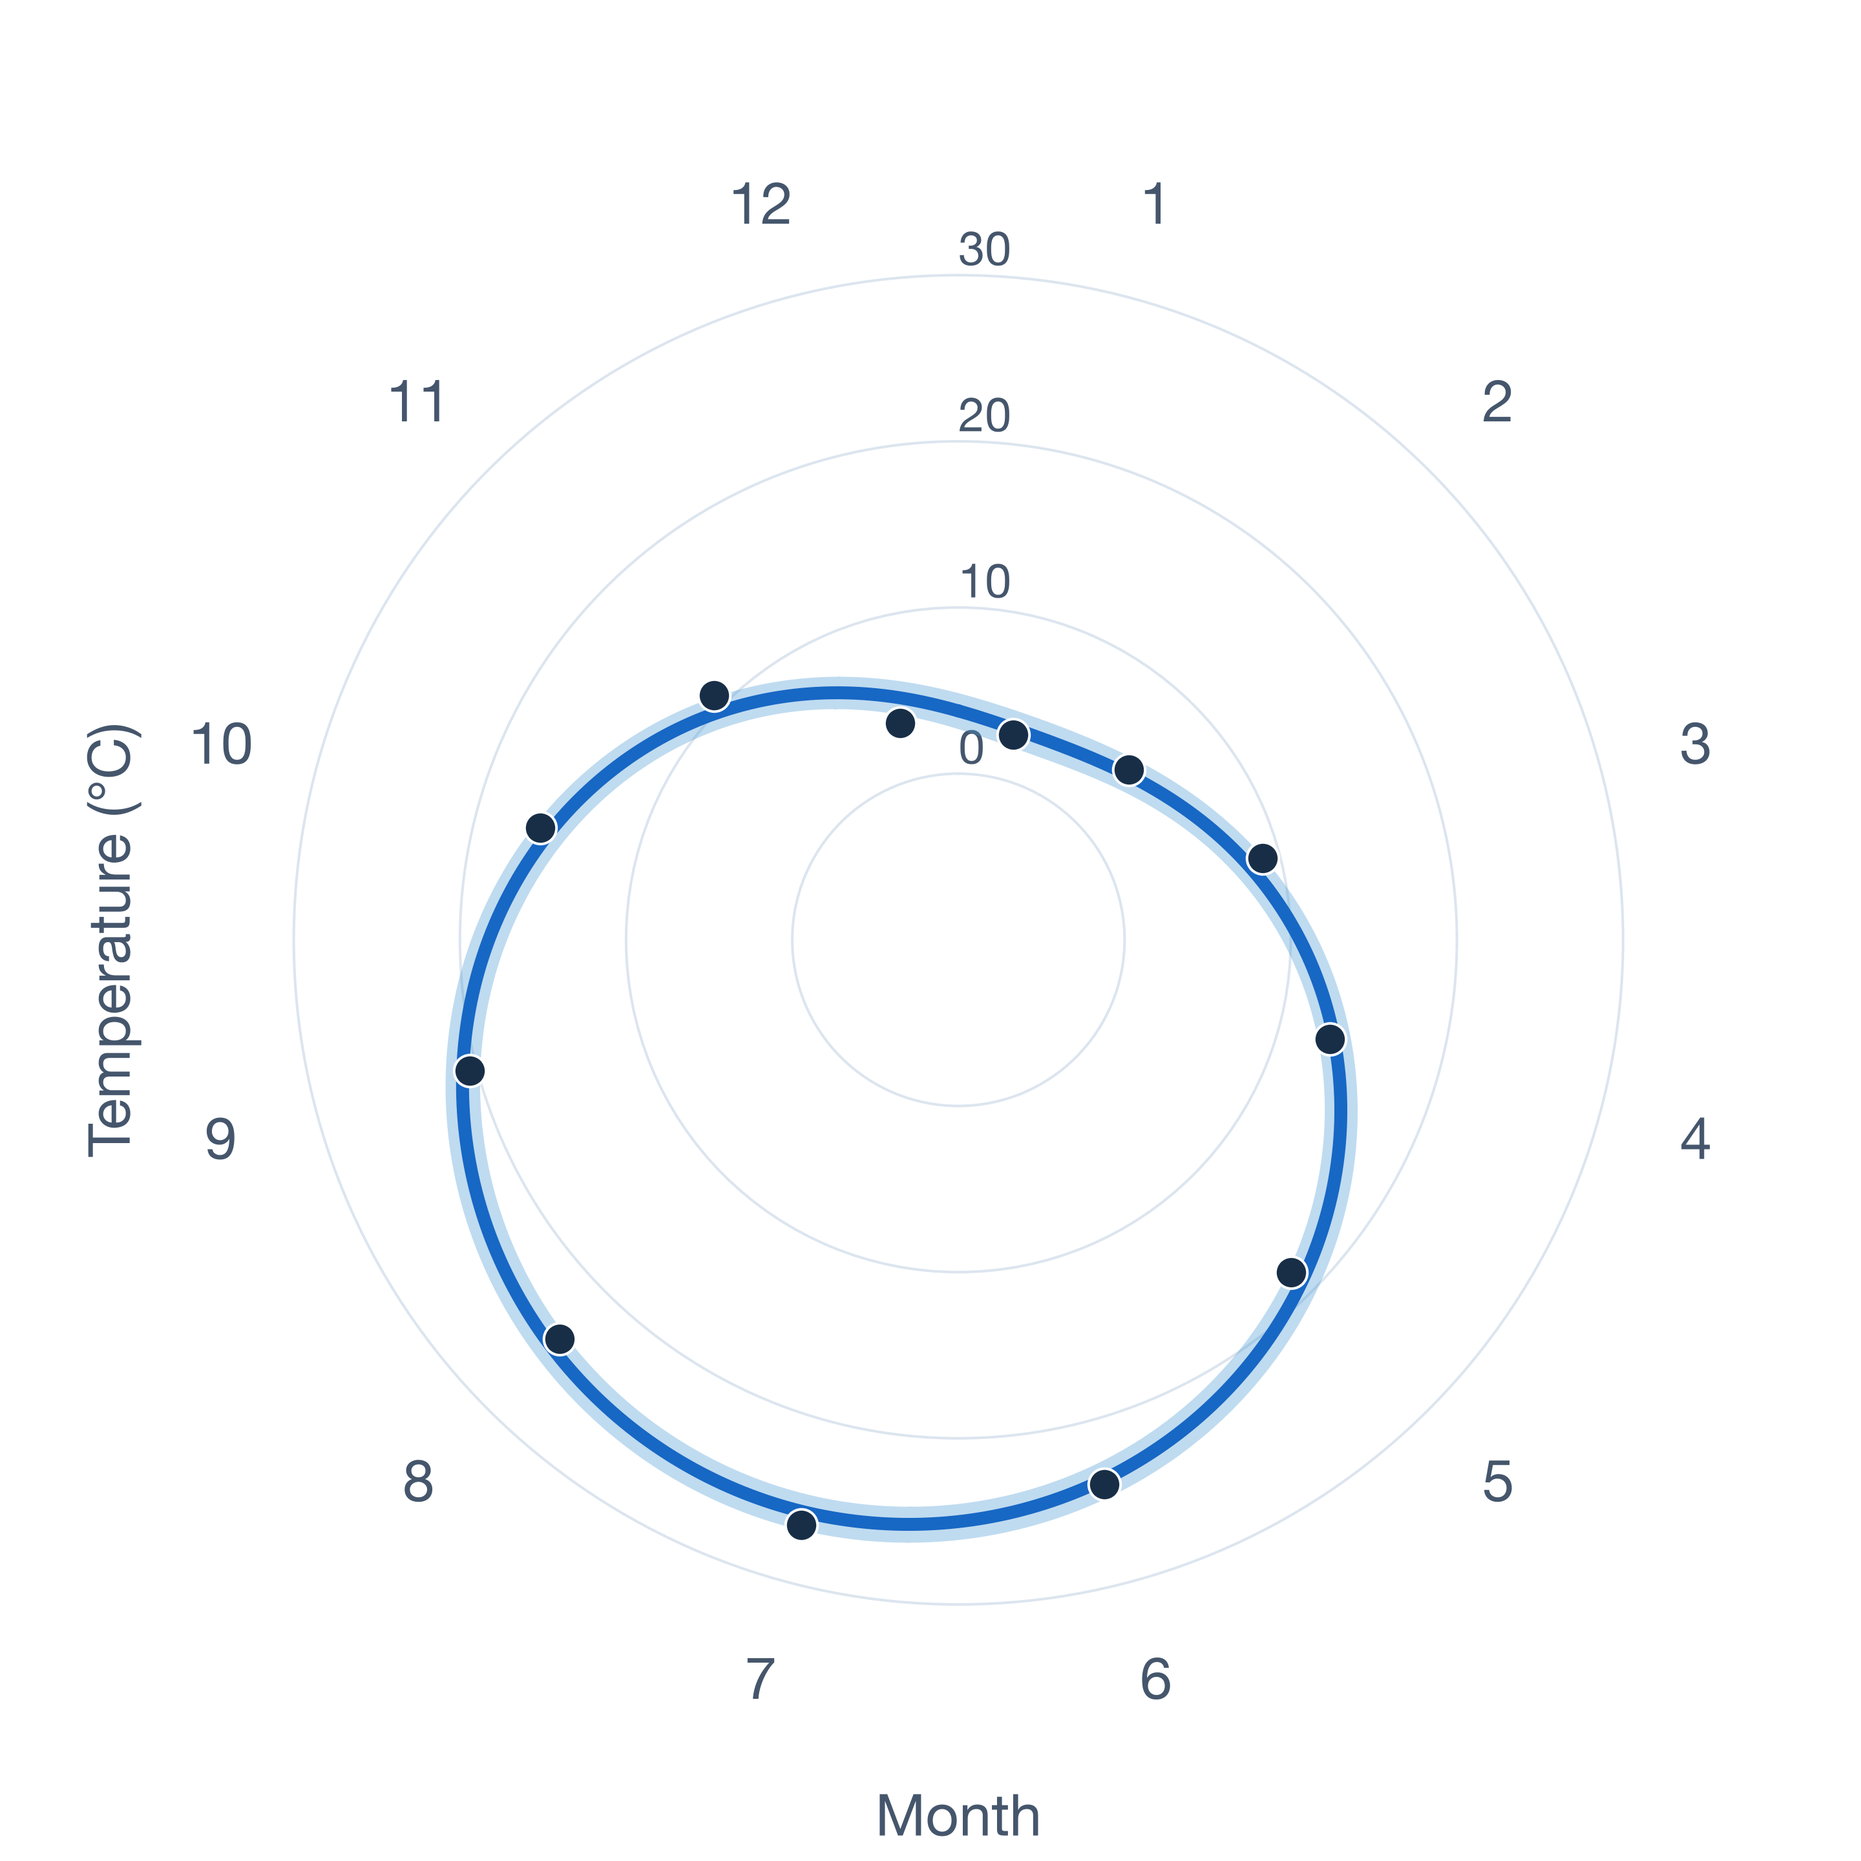
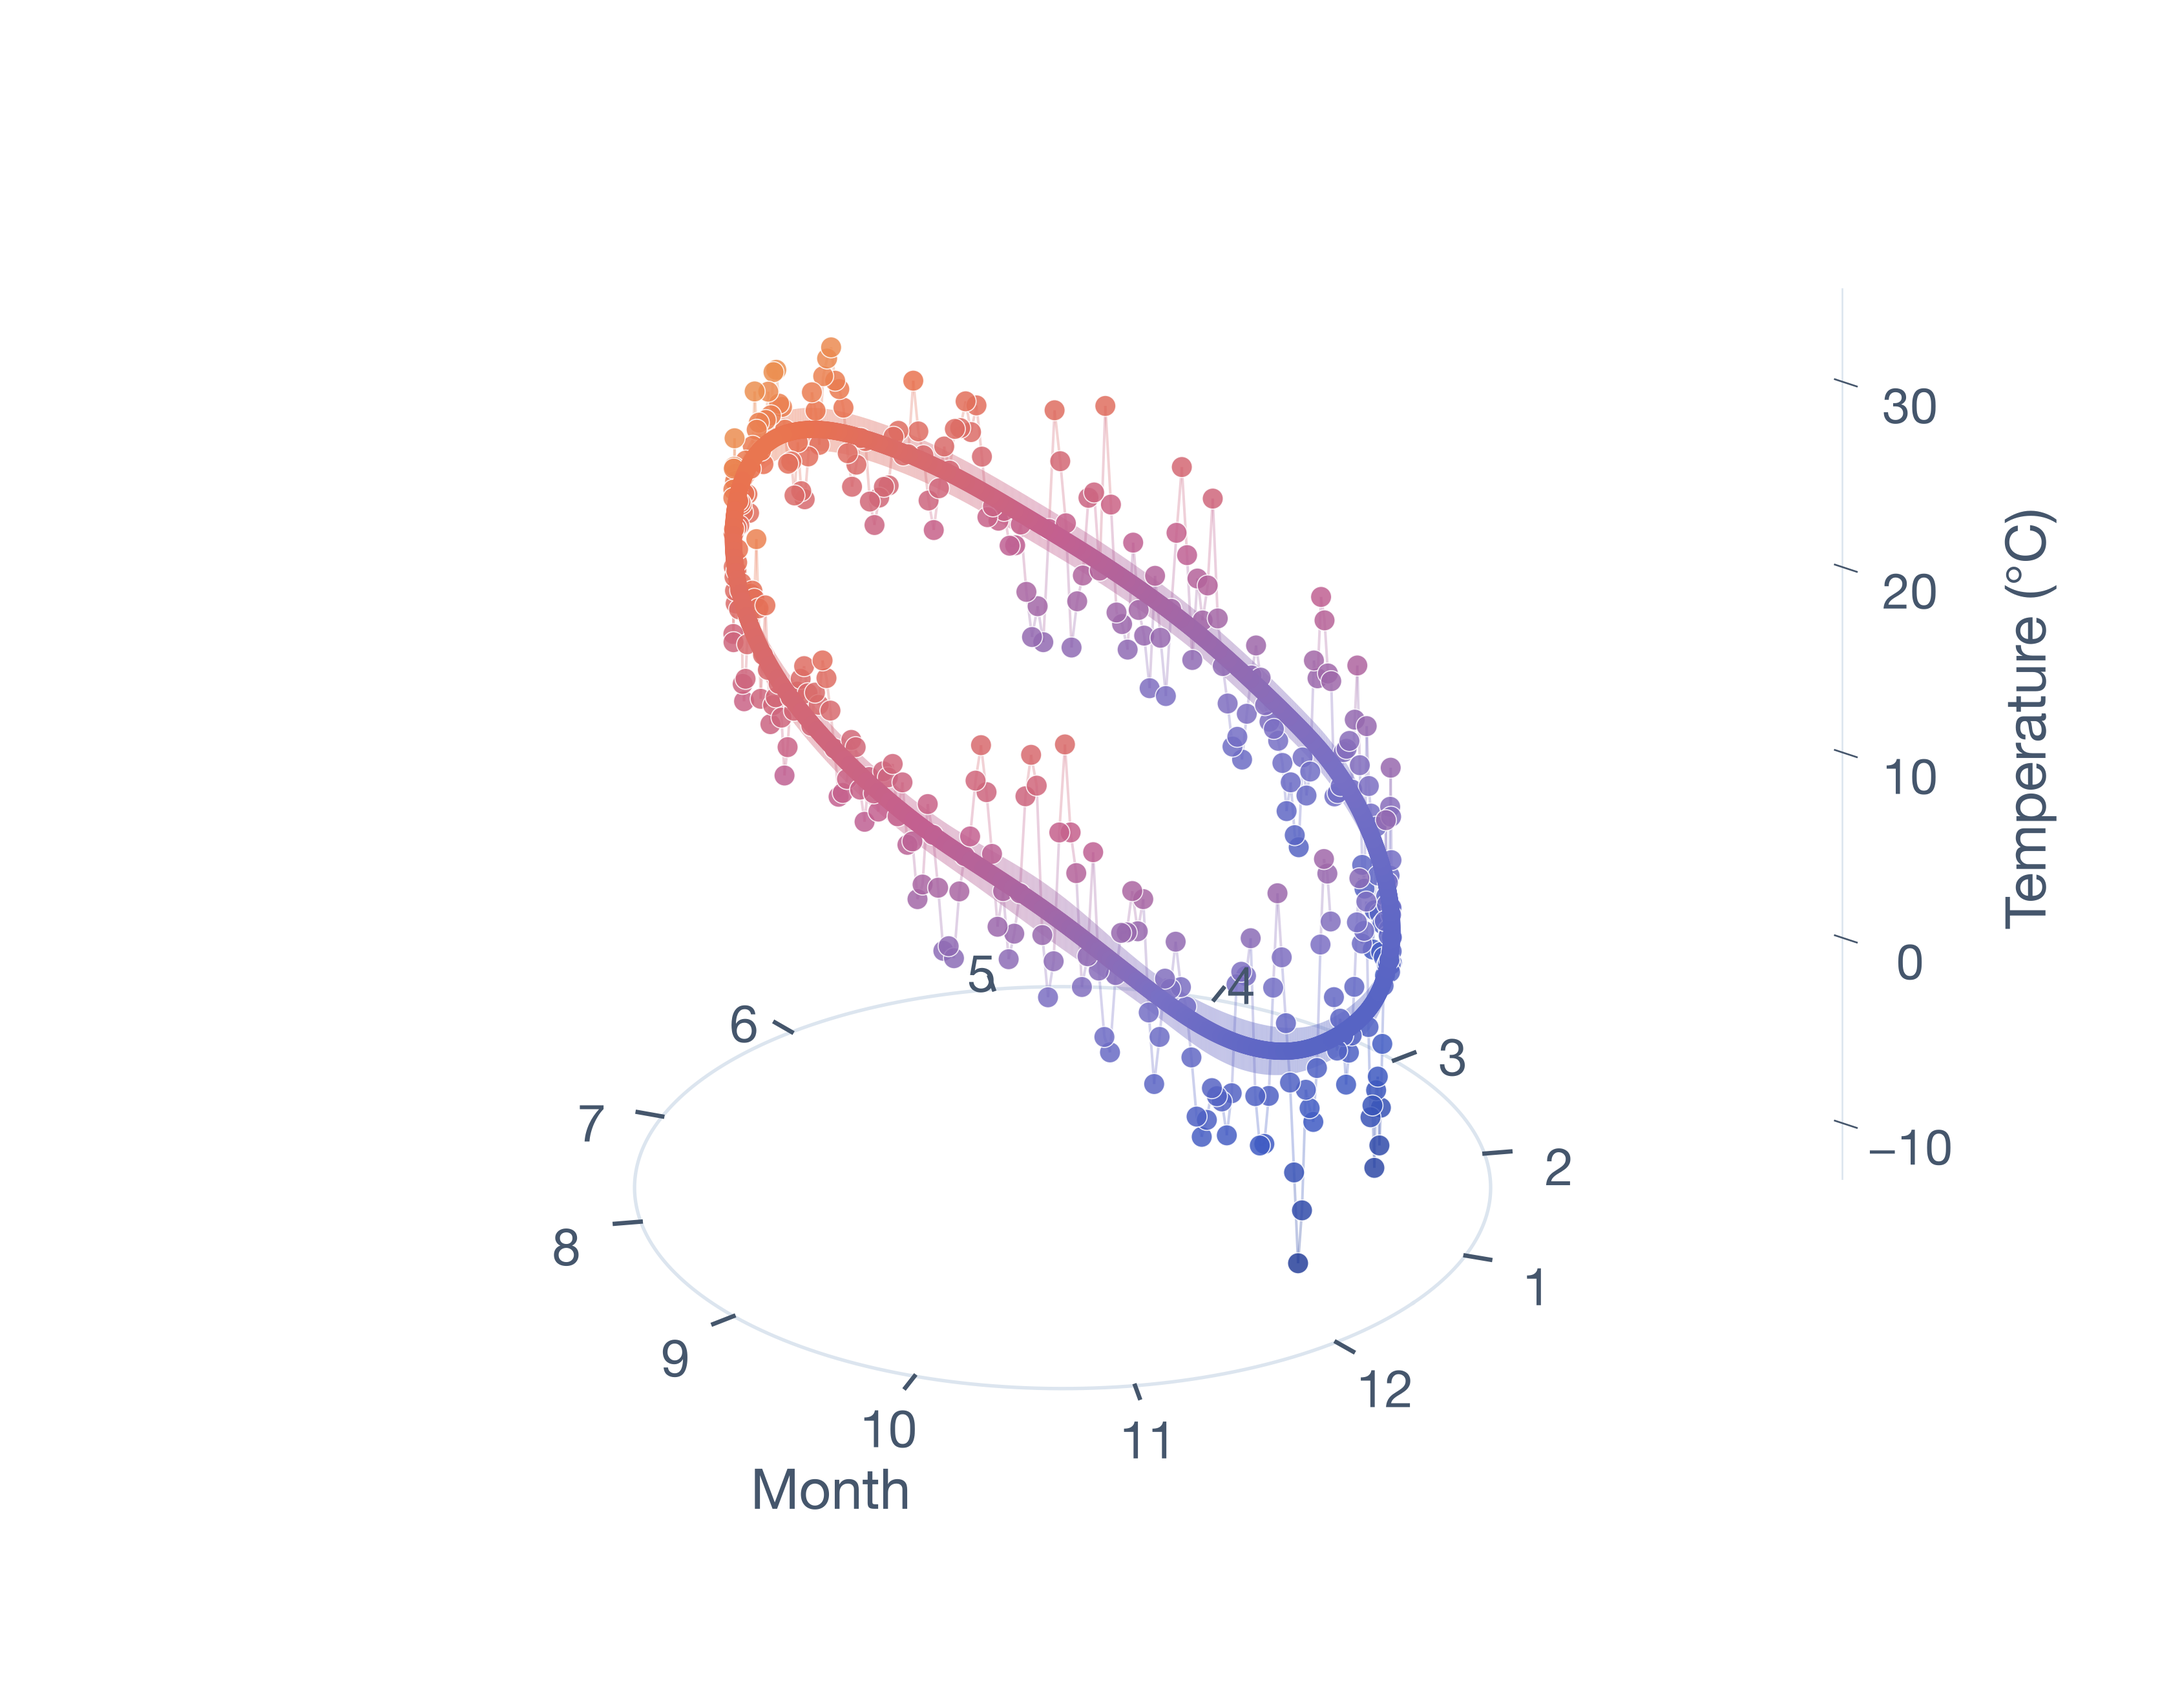
Render all daily temperatures as a colored 3-D cyclic loop with uncertainty

diff --git a/scripts/gen_readme_temperature.py b/scripts/gen_readme_temperature.py
@@ -1,11 +1,11 @@
-"""One circular plot of a real cyclic temperature fit, with a 95% mean band.
+"""One 3-D loop of all 366 daily temperatures and a periodic fit.
 
 NOAA GHCN-Daily station USW00094728 (New York Central Park), 2024.
-Monthly points average paired, quality-approved daily (TMAX + TMIN) / 2.
-Fit the 12 monthly means with gamfit's periodic smooth; radius is temperature
-in Celsius and angle is month. The fitted mean and credible bounds join at
-the year boundary. The radial origin is -10 C, explicitly reflected by the
-radial limits; neither temperatures nor uncertainty widths are rescaled.
+Each observation is a quality-approved daily (TMAX + TMIN) / 2 in Celsius.
+No averaging into months or downsampling: all 366 daily observations appear.
+Angle encodes day of year, while both height and colour encode temperature.
+The continuous fitted loop has a vertical 95% credible ribbon. Its mean and
+bounds wrap at the year boundary; calendar months mark the circular base axis.
 
 Source: https://www.ncei.noaa.gov/pub/data/ghcn/daily/all/USW00094728.dly
 Format: https://www.ncei.noaa.gov/pub/data/ghcn/daily/readme.txt
@@ -25,7 +25,7 @@ import gamfit
 
 ROOT = Path(__file__).resolve().parents[1]
 SOURCE = ROOT / 'docs/data/central_park_2024.dly'
-FORMULA = 'temperature ~ s(phase, periodic=true, period=1, k=8)'
+FORMULA = 'temperature ~ s(phase, periodic=true, period=1, k=60)'
 THEMES = {
     'light': dict(background='#ffffff', ink='#45566c', grid='#dce5ef',
                   mean='#1767c4', band='#489ad4', points='#182e47'),
@@ -34,7 +34,7 @@ THEMES = {
 }
 
 
-def monthly_data():
+def daily_data():
     daily = {}
     for line in SOURCE.read_text().splitlines():
         assert line[:11] == 'USW00094728' and line[11:15] == '2024'
@@ -46,16 +46,16 @@ def monthly_data():
             value, quality = int(record[:5]), record[6]
             values.append(value / 10 if value != -9999 and quality == ' ' else np.nan)
         daily[month, element] = np.asarray(values)
-    means = []
-    for month in range(1, 13):
-        pairs = (daily[month, 'TMAX'] + daily[month, 'TMIN']) / 2
-        assert np.isfinite(pairs).sum() >= 25
-        means.append(np.nanmean(pairs))
-    return {'phase': (np.arange(12) + 0.5) / 12, 'temperature': np.asarray(means)}
+    temperature = np.concatenate([
+        (daily[month, 'TMAX'] + daily[month, 'TMIN']) / 2
+        for month in range(1, 13)
+    ])
+    assert len(temperature) == 366 and np.isfinite(temperature).all()
+    return {'phase': (np.arange(366) + 0.5) / 366, 'temperature': temperature}
 
 
 def fit():
-    data = monthly_data()
+    data = daily_data()
     model = gamfit.fit(data, FORMULA)
     phase = np.linspace(0, 1, 1441)
     bands = model.predict({'phase': phase}, interval=0.95, return_type='dict')
@@ -67,50 +67,89 @@ def fit():
     seam = model.predict({'phase': [-epsilon, 0, epsilon, 1-epsilon, 1, 1+epsilon]},
                          return_type='dict')['posterior_mean']
     np.testing.assert_allclose(seam[:3], seam[3:], atol=1e-9, rtol=0)
-    print('12 measured monthly means; fitted mean, 95% credible bounds and seam derivatives verified.')
+    print('366 measured daily temperatures; fitted mean, 95% credible bounds and seam derivatives verified.')
     return data, phase * 2 * np.pi, bands
 
 
 def draw(data, theta, bands, theme, path):
+    from matplotlib.colors import LinearSegmentedColormap, Normalize
+    from mpl_toolkits.mplot3d.art3d import Line3DCollection, Poly3DCollection
+
     plt.rcParams.update({'font.family': ['Helvetica Neue', 'DejaVu Sans'],
                          'font.size': 24, 'savefig.bbox': None})
-    fig = plt.figure(figsize=(12, 12), dpi=240, facecolor=theme['background'])
-    ax = fig.add_axes((0.14, 0.12, 0.75, 0.75), projection='polar',
-                     facecolor=theme['background'])
-    ax.set_theta_zero_location('N')
-    ax.set_theta_direction(-1)
-    ax.set_ylim(-10, 32)
-    ax.set_yticks([-10, 0, 10, 20, 30])
-    ax.set_yticklabels(['−10', '0', '10', '20', '30'], color=theme['ink'], fontsize=22)
-    ax.set_rlabel_position(0)
-    months = data['phase'] * 2 * np.pi
-    ax.set_xticks(months)
-    ax.set_xticklabels([str(month) for month in range(1, 13)],
-                       fontsize=27, color=theme['ink'])
-    ax.tick_params(axis='x', pad=20)
-    ax.xaxis.grid(False)
-    ax.yaxis.grid(True, color=theme['grid'], linewidth=1.2)
-    ax.spines['polar'].set_visible(False)
-    ax.fill_between(theta, bands['posterior_mean_lower'], bands['posterior_mean_upper'],
-                    color=theme['band'], alpha=0.35, linewidth=0, zorder=2)
-    ax.plot(theta, bands['posterior_mean'], color=theme['mean'], linewidth=6,
-            solid_capstyle='round', zorder=3)
-    ax.scatter(months, data['temperature'], s=220, color=theme['points'],
-               edgecolors=theme['background'], linewidth=1.2, zorder=4)
-    ax.set_xlabel('Month', fontsize=27, labelpad=32, color=theme['ink'])
-    ax.set_ylabel('Temperature (°C)', fontsize=27, labelpad=55, color=theme['ink'])
-    assert len(fig.axes) == 1 and not ax.get_title() and not ax.texts and not fig.texts
+    fig = plt.figure(figsize=(14, 11), dpi=240, facecolor=theme['background'])
+    ax = fig.add_axes((0.025, 0.075, 0.91, 0.89), projection='3d',
+                     facecolor=theme['background'], computed_zorder=False)
+    normalize = Normalize(-10, 35)
+    palette = LinearSegmentedColormap.from_list('temperature', [
+        '#233b91', '#405cc4', '#7870c5', '#c36090', '#e97250', '#f0b353',
+    ])
+    mean = bands['posterior_mean']
+    lower, upper = bands['posterior_mean_lower'], bands['posterior_mean_upper']
+    x, y = np.cos(theta), np.sin(theta)
+    positions = np.column_stack([x, y, mean])
+    # The central loop's geometry and colour both encode predicted temperature.
+    segments = np.stack([positions[:-1], positions[1:]], axis=1)
+    colors = palette(normalize((mean[:-1] + mean[1:]) / 2))
+    curve = Line3DCollection(segments, colors=colors, linewidths=8,
+                             capstyle='round', zorder=5)
+    # A vertical ribbon has exactly the model's 95% credible bounds as edges.
+    quads = np.stack([
+        np.column_stack([x[:-1], y[:-1], lower[:-1]]),
+        np.column_stack([x[1:], y[1:], lower[1:]]),
+        np.column_stack([x[1:], y[1:], upper[1:]]),
+        np.column_stack([x[:-1], y[:-1], upper[:-1]]),
+    ], axis=1)
+    ax.add_collection3d(Poly3DCollection(quads, facecolors=colors,
+                                        edgecolors='none', alpha=0.4, zorder=3))
+    ax.add_collection3d(curve)
+
+    days = data['phase'] * 2 * np.pi
+    dx, dy = np.cos(days), np.sin(days)
+    # Every daily observation is plotted, including short weather fluctuations.
+    observations = ax.scatter(dx, dy, data['temperature'], s=95,
+               c=palette(normalize(data['temperature'])),
+               edgecolors=theme['background'], linewidth=0.5,
+               depthshade=False, alpha=0.85, zorder=4)
+    assert len(observations._offsets3d[0]) == 366
+    daily_positions = np.column_stack([dx, dy, data['temperature']])
+    raw_segments = np.stack([daily_positions[:-1], daily_positions[1:]], axis=1)
+    raw_colors = palette(normalize((data['temperature'][:-1] + data['temperature'][1:])/2))
+    ax.add_collection3d(Line3DCollection(raw_segments, colors=raw_colors,
+                                        linewidths=1.2, alpha=0.3, zorder=2))
+    month_lengths = np.asarray([calendar.monthrange(2024, month)[1] for month in range(1, 13)])
+    month_centers = (np.cumsum(month_lengths) - month_lengths/2) / 366
+    months = month_centers * 2 * np.pi
+
+    # The floor circle is the month axis, not a second data series.
+    ax.plot(1.3*x, 1.3*y, np.full_like(theta, -10), color=theme['grid'], linewidth=1.6, zorder=1)
+    for month, angle in enumerate(months, 1):
+        ax.plot([1.3*np.cos(angle), 1.38*np.cos(angle)],
+                [1.3*np.sin(angle), 1.38*np.sin(angle)], [-10, -10],
+                color=theme['ink'], linewidth=2, zorder=1)
+        ax.text(1.53*np.cos(angle), 1.53*np.sin(angle), -11, str(month),
+                color=theme['ink'], fontsize=24, ha='center', va='center', zorder=6)
+    ax.text(0.4, -1.8, -12, 'Month', color=theme['ink'], fontsize=26,
+            ha='center', va='center', zorder=6)
+
+    ax.set(xlim=(-1.7, 1.7), ylim=(-1.7, 1.7), zlim=(-13, 35))
+    ax.set_xticks([])
+    ax.set_yticks([])
+    ax.set_zticks([-10, 0, 10, 20, 30])
+    ax.set_zlabel('Temperature (°C)', fontsize=26, labelpad=22, color=theme['ink'])
+    ax.tick_params(axis='z', labelsize=23, pad=8, colors=theme['ink'])
+    ax.set_box_aspect((1, 1, 0.9), zoom=1.20)
+    ax.set_proj_type('ortho')
+    ax.view_init(elev=28, azim=-55)
+    ax.grid(False)
+    for axis in (ax.xaxis, ax.yaxis, ax.zaxis):
+        axis.pane.set_visible(False)
+        axis.line.set_color(theme['grid'])
+    ax.xaxis.line.set_visible(False)
+    ax.yaxis.line.set_visible(False)
+    assert len(fig.axes) == 1 and not ax.get_title() and not fig.texts
     assert ax.get_legend() is None
-    # Check physical marker separation after the polar transform, including
-    # the December–January pair. All twelve measurements remain visible.
     fig.canvas.draw()
-    positions = ax.transData.transform(np.column_stack([months, data['temperature']]))
-    distances = np.linalg.norm(positions[:, None] - positions[None, :], axis=-1)
-    np.fill_diagonal(distances, np.inf)
-    diameter = (np.sqrt(220) + 1.2) * fig.dpi / 72
-    assert distances.min() > diameter * 1.5, (distances.min(), diameter)
-    print(f'{path.name}: minimum point separation {distances.min():.0f}px; '
-          f'marker diameter {diameter:.0f}px')
     fig.savefig(path, dpi=240, facecolor=theme['background'])
     plt.close(fig)
 

diff --git a/README.md b/README.md
@@ -13,7 +13,7 @@ One Rust engine serves both the Python package (`gamfit`) and the CLI (`gam`).
 
 <picture>
   <source media="(prefers-color-scheme: dark)" srcset="docs/images/readme_temperature_dark.png">
-  <img alt="One cyclic temperature plot: NOAA Central Park monthly means for 2024, a periodic gamfit smooth, and its 95% credible band. Months run clockwise; radius is temperature in Celsius with a −10 °C origin. The fitted curve and uncertainty band wrap smoothly from December to January." src="docs/images/readme_temperature.png" width="1200">
+  <img alt="A single 3-D annual temperature loop showing all 366 daily Central Park observations from 2024. Height and color both encode temperature in Celsius; angle encodes day of year. The thick periodic gamfit mean and its vertical 95% credible ribbon join smoothly at the year boundary. The circular base axis marks calendar months." src="docs/images/readme_temperature.png" width="1200">
 </picture>
 
 Docs: <https://gamfit.readthedocs.io/>. PyPI: <https://pypi.org/project/gamfit/>.
